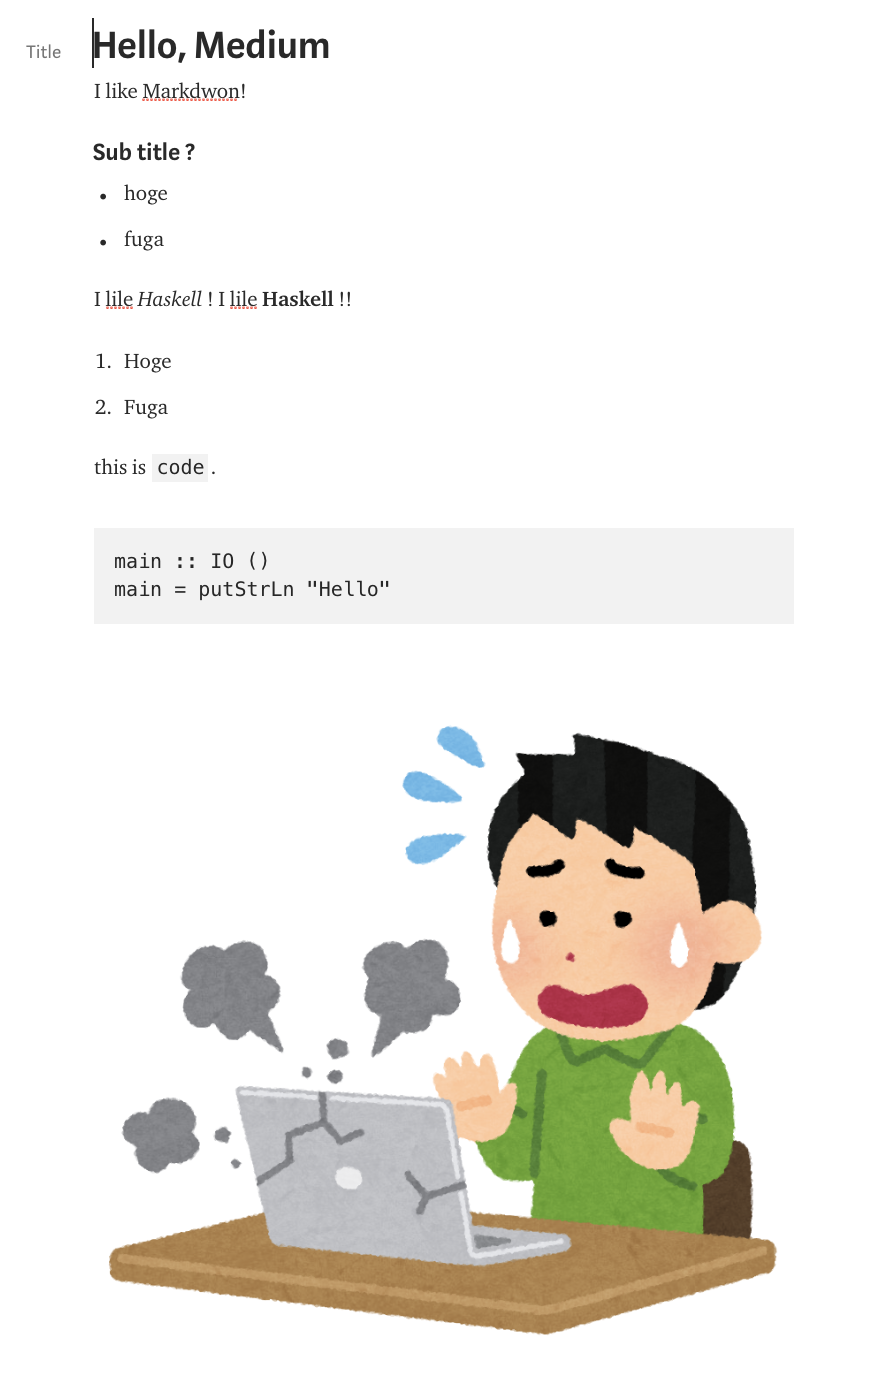
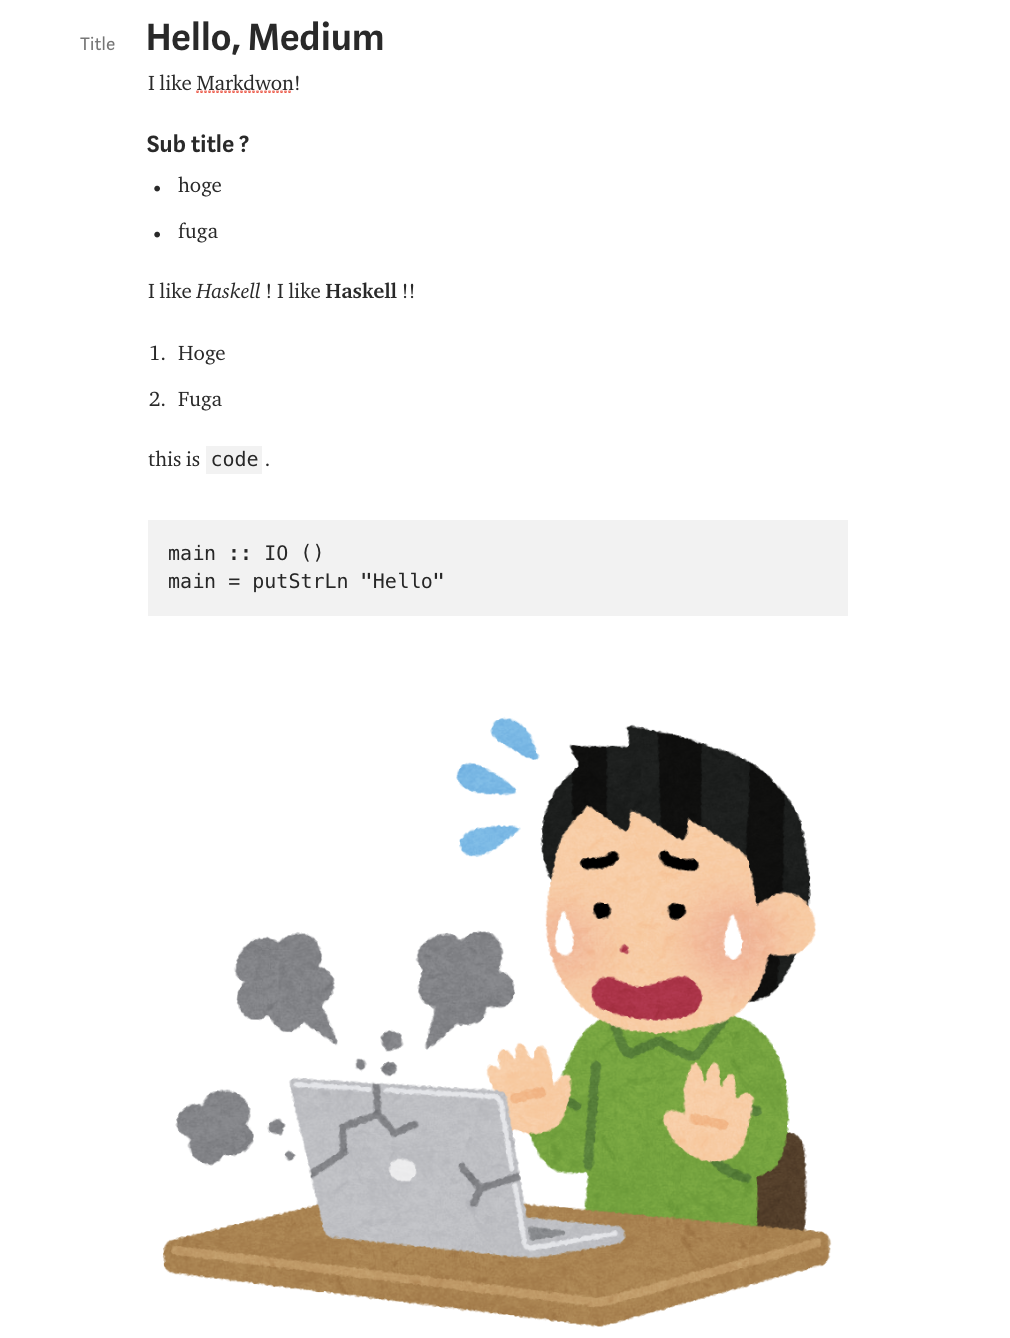
Fix typo

diff --git a/example/example.md b/example/example.md
@@ -7,8 +7,8 @@ I like Markdwon!
 - hoge
 - fuga
 
-I lile *Haskell* !
-I lile **Haskell** !!
+I like *Haskell* !
+I like **Haskell** !!
 
 1. Hoge
 2. Fuga
